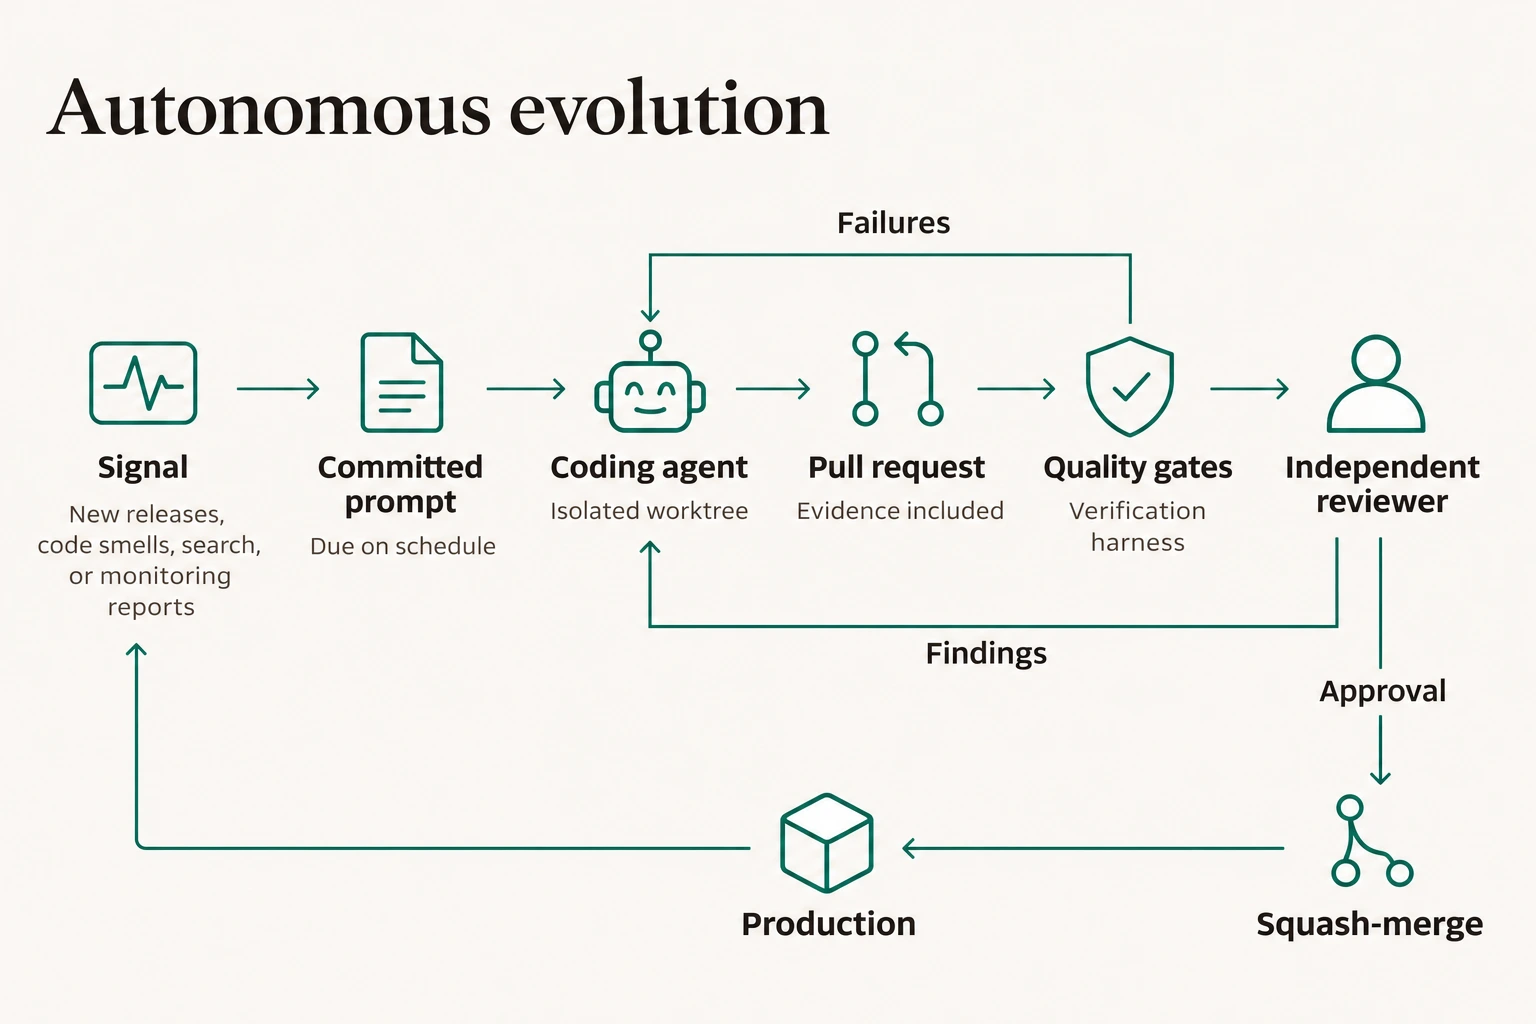
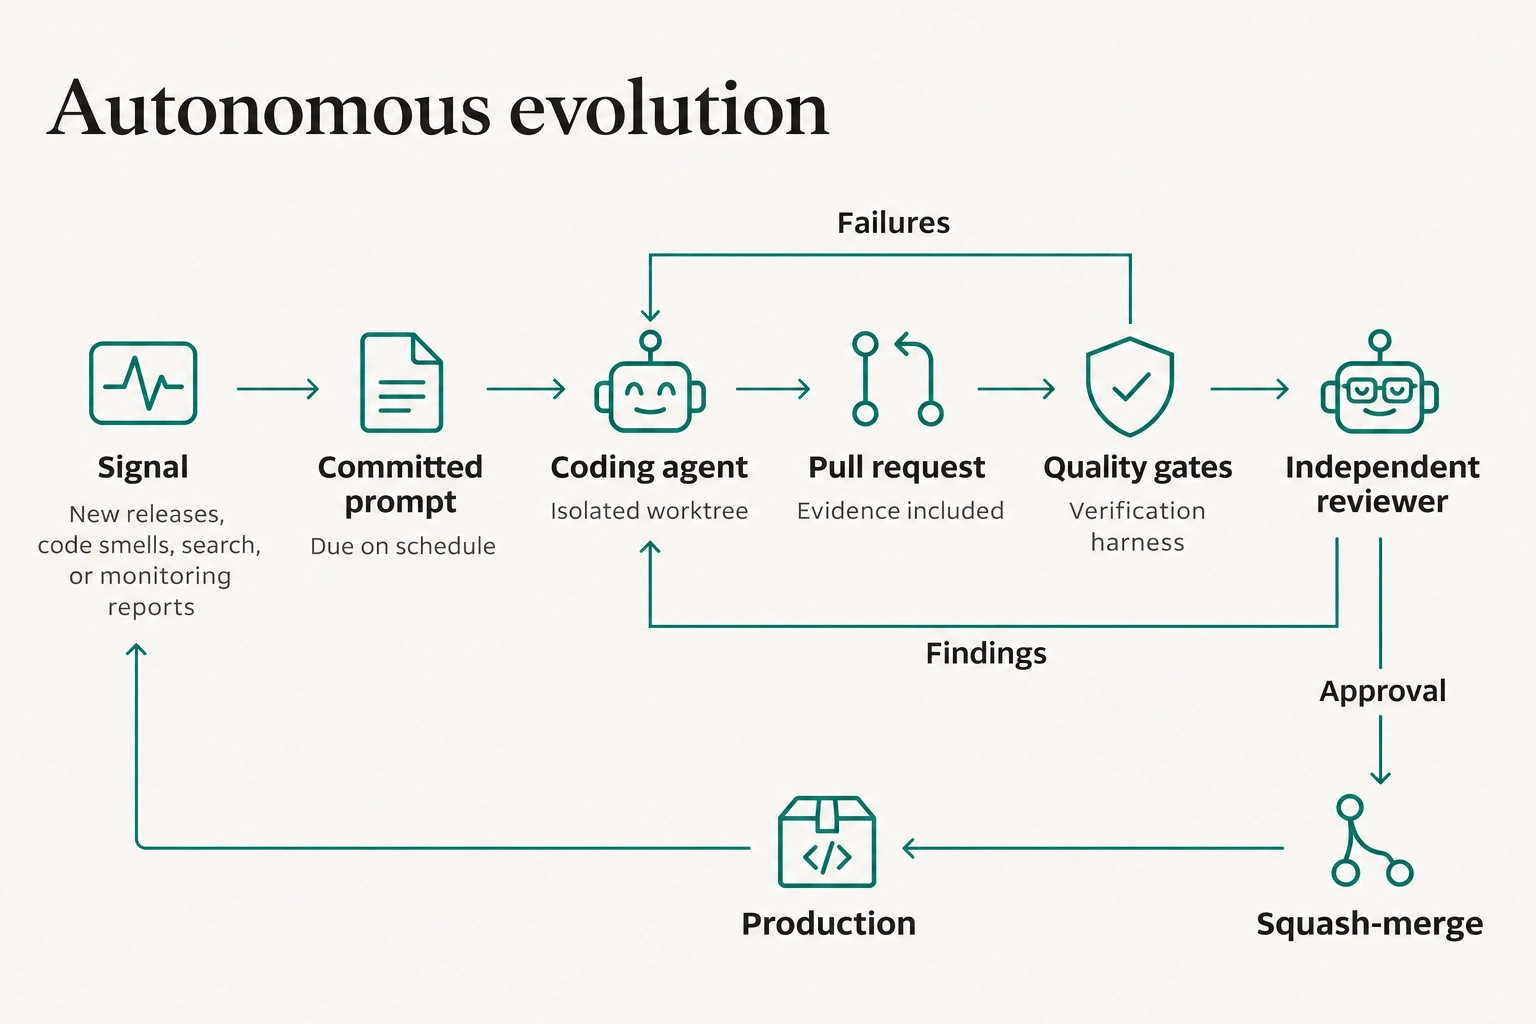
docs(autonomy): summarise what a repository's software factory needs (#19)
## Summary

Reframes the readiness guidance in [Autonomous
evolution](docs/autonomy.md) around one point: the giga factory only
coordinates, so it is only as reliable as each repository's own software
factory, and that factory needs sound agentic engineering practices.

- **Replaced** *Ready for autonomous merging* (the rule table and the
checklist) with a broad *What a repository needs* summary: a codebase
worth copying, guidance and one setup command, strict gates, behaviour
verification, an independent reviewer, prompts that define done, and
boundaries set by people.

- **Added** *In production*: these patterns maintain Python and R
packages, a public web application,
[indrapatil.com](https://www.indrapatil.com), and private dashboards,
with chatbot-template as the public example of a minimal setup.

- **Kept** *Strict, green quality gates* as a subsection.

- **Illustration:** the autonomous-evolution figure now shows the
independent reviewer as an LLM and production as a software package,
with the edit prompt recorded.

- **Linked** the new section from the README, configuration, and setup
pages.

## Validation

- `make docs` builds strictly
- `make hooks` passes

diff --git a/docs/autonomy.md b/docs/autonomy.md
@@ -47,43 +47,79 @@ whether it worked.
 > commands it may run, and keep sections that only a person can check (such as
 > dashboards with no API) as notes in the pull request.
 
-## Ready for autonomous merging
+## What a repository needs
 
-Merging automatically is safe only when a green, approved pull request is
-genuinely as good as one a careful maintainer would have merged. The
-[Golden Rules for Agentic Engineering](https://www.indrapatil.com/agentic-engineering-golden-rules/)
-describe how to get there:
+llm-dependabot is a giga factory: it only decides when each prompt runs and
+where. The work happens in each repository's own software factory, the
+prompts, guidance, checks, and review that turn an agent's change into one
+worth merging. The giga factory can only be as reliable as the factories it
+coordinates, so a repository is ready for it once its own factory works
+without anyone watching, and that takes sound agentic engineering practices:
 
-| Rule | In short |
-| --- | --- |
-| 1. Prepare the codebase for agents | Agents copy the patterns they find, so pay down high-impact technical debt first |
-| 2. Improve developer experience | What makes a repository easy for humans makes it cheaper and safer for agents: one setup command and an `AGENTS.md` |
-| 3. Set deterministic quality gates | Formatters, linters, type checkers, and tests catch known classes of mistakes, fast; agents clear strict gates tirelessly |
-| 4. Define done before delegating | State the outcome, constraints, and evidence of success, and have the agent verify its own work |
-| 5. Maintain session hygiene | Keep each task's context focused; separate parallel tasks into Git worktrees |
-| 6. Know thy tools | Use the agent's less obvious capabilities, such as image generation or computer use |
-| 7. Keep pace with a fast-moving field | Keep the agent harness current, and simplify instructions as models and tools improve |
-| 8. Automate repeated agent work | Capture recurring workflows once as prompts, skills, commands, or workflows |
-| 9. Identify and remove bottlenecks | Speed up the slowest stage next, whether checks, review, or verification |
-| 10. Give your agents more autonomy | Let agents act within boundaries that people set, with scoped access |
+- **A codebase worth copying.** Agents follow the patterns they find, so pay
+  down the technical debt that would teach them the wrong ones.
 
-Three safeguards together make low-touch delivery possible:
+- **Guidance and one setup command.** An `AGENTS.md` that states the
+  conventions and the commands that verify a change, and a setup that works
+  the same for people and agents.
 
-- **Quality gates** check the code: formatting, linting, type checking, tests
-  with coverage, dependency audits, and security scans, run identically by
-  Git hooks and CI.
+- **Strict, green quality gates.** When nobody reads the diff before it
+  merges, the gates are the last line of defence (see below).
 
-- **A verification harness** checks the behaviour: end-to-end and browser
-  tests, visual snapshots, and screenshots attached to the pull request.
+- **Verification of behaviour.** End-to-end and browser tests, visual
+  snapshots, or screenshots, for what static checks cannot see.
 
-- **An independent reviewer agent** reviews every pull request and sends
-  findings back to the coding agent until it approves.
+- **An independent reviewer.** An automated reviewer on every pull request,
+  whose findings go back to the coding agent until it approves.
+
+- **Prompts that define done.** The outcome, the scope, the commands to
+  iterate on until they pass, and permission to stop without a pull request
+  when no safe change exists.
+
+- **Boundaries set by people.** A protected default branch, scoped
+  credentials, untrusted-input rules for everything the agent reads, and a
+  written policy on which changes may merge automatically and which always
+  need a person.
+
+Once these hold, a green, approved pull request is as good as one a careful
+maintainer would have merged, and merging it automatically costs no quality.
+
+### In production
+
+These patterns are not limited to prototypes or proofs of concept. They
+maintain live systems that people depend on and that must stay current:
+
+- **Open-source Python packages** (for example,
+  [md2linkedin](https://github.com/IndrajeetPatil/md2linkedin)) and **R
+  packages** (for example,
+  [ggstatsplot](https://github.com/IndrajeetPatil/ggstatsplot)), with users
+  downstream.
+
+- **Public web applications,** such as a bilingual practice app for the
+  [German naturalisation test](https://www.indrapatil.com/einbuergerungstest/).
+
+- **A personal website,** [indrapatil.com](https://www.indrapatil.com),
+  whose content, dependencies, and search presence update themselves.
+
+- **Private dashboards** that run continuously on live data.
+
+The website and dashboards are private repositories, so
+[chatbot-template](https://github.com/IndrajeetPatil/chatbot-template)
+serves as the public example. It is a template rather than a widely used
+system, but it shows what a minimal software factory looks like: its
+`AGENTS.md`, prompts, skills, quality gates, browser tests, and reviewer loop
+let the coding agent fix CI and review findings, then squash-merge once the
+review approves and the required checks pass.
+
+> [!IMPORTANT]
+> Autonomy does not remove oversight. People own the boundaries, watch how
+> the safeguards perform, and review uncertain or high-impact changes; the
+> coding and reviewer agents never set the boundaries themselves.
 
 ### Strict, green quality gates
 
-When nobody reads the diff before it merges, the quality gates are the last
-line of defence: they reject whatever a person no longer catches. They must
-be in excellent condition:
+The gates must be in excellent condition, because they reject whatever a
+person no longer catches:
 
 | Property | What it means |
 | --- | --- |
@@ -103,55 +139,6 @@ needs review.
 > Never let an agent loosen a gate to make its change pass. Prompts and
 > `AGENTS.md` should forbid lowering thresholds, adding ignores, or skipping
 > tests without a justification that a person approves.
-
-[chatbot-template](https://github.com/IndrajeetPatil/chatbot-template/blob/main/AGENTS.md)
-shows the flow in practice: its agent instructions have the coding agent fix
-CI and review findings, then squash-merge once the review approves and the
-required checks pass.
-
-### Readiness checklist
-
-Before letting pull requests merge without a person, a repository should
-have:
-
-- [ ] A protected default branch that requires pull requests and passing
-      checks, with squash merging only.
-
-- [ ] A green default branch, so every run starts from a known baseline.
-
-- [ ] One setup command and an `AGENTS.md` with the project's conventions and
-      the commands that verify a change.
-
-- [ ] [Strict, green quality gates](#strict-green-quality-gates), strict
-      enough that passing them is meaningful, such as coverage or
-      mutation-testing thresholds rather than tests that merely exist.
-
-- [ ] A verification harness for behaviour that the gates cannot see, such as
-      user journeys and the rendered interface.
-
-- [ ] An automated reviewer on every pull request, with a fix-and-review loop.
-
-- [ ] Prompts that define done: the commands to iterate on until they pass,
-      the scope of the change, and an instruction to stop without a pull
-      request when no safe change exists.
-
-- [ ] A written risk boundary: which kinds of change may merge automatically,
-      and which always need a person, such as authentication, data
-      migrations, releases, or anything that invalidates a manual grant.
-
-- [ ] Small, reversible pull requests: one prompt, one theme, one pull
-      request.
-
-- [ ] Scoped credentials and untrusted-input rules for everything the agent
-      reads.
-
-- [ ] Monitoring after deployment, so a regression that slips through
-      becomes the next signal.
-
-> [!IMPORTANT]
-> Autonomy does not remove oversight. People own the risk boundary, watch how
-> the safeguards perform, and review uncertain or high-impact changes; the
-> coding and reviewer agents never set the boundary themselves.
 
 ## Keeping the factory itself current
 

diff --git a/docs/images/README.md b/docs/images/README.md
@@ -32,6 +32,8 @@ The hex sticker is drawn by hand; see [hextools](../../hextools/README.md).
 
 ```text
 Use case: infographic-diagram. Asset type: documentation illustration for the “Autonomous evolution” guide. Input image: use the existing llm-dependabot figure only as a reference for palette, typography, line weight, and restrained editorial style; do not copy its content or layout. Create a new landscape 3:2 editorial diagram showing the autonomous delivery feedback loop. Use warm paper #faf8f4, ink #201d18, muted ink #5d574c, fine hairlines #e3ded2, and restrained teal #14584d for the main flow. Use a large elegant Fraunces-like serif title, clean Hanken-like sans labels, flat outline icons, thin orthogonal arrows, generous whitespace, and no cards. Title exactly: “Autonomous evolution”. Show a clear left-to-right flow: “Signal” with small note “New releases, code smells, search, or monitoring reports” → “Committed prompt” with note “Due on schedule” → “Coding agent” with note “Isolated worktree” → “Pull request” with note “Evidence included” → “Quality gates” with note “Verification harness”. Then “Independent reviewer”. Show a failure loop from Quality gates back to Coding agent, labelled “Failures”; show a findings loop from Independent reviewer back to Coding agent, labelled “Findings”; show approval from Independent reviewer to “Squash-merge”, labelled “Approval”; then “Production”, with a return loop from Production back to Signal. Make arrows and branches clean and unambiguous, avoid crossing lines where possible. Exact spelling and labels. British English. No shadows, gradients, texture, 3D, emoji, decorative footer, ordinal numbering, extra text, invented facts, or logos.
+
+Follow-up edit prompt: Use case: precise-object-edit. Asset type: documentation infographic for the “Autonomous evolution” guide. Input image: Image 1 is the edit target. Preserve this exact landscape 3:2 diagram, including every position, line, label, arrow direction, line break, colour, size, spacing, warm-paper background, serif title, and restrained flat editorial style. Make only two icon changes: (1) replace the human outline icon above “Independent reviewer” with a friendly flat outline robot/LLM figure matching the “Coding agent” robot style, but clearly distinguished by simple ink/teal glasses; this communicates that the reviewer is also an LLM. (2) replace the plain cube above “Production” with a clean software-package icon, such as a closed parcel/package box with a small subtle code/package mark, still a flat outline in the same teal stroke weight and visual scale. Preserve all text exactly and legibly, especially “Independent reviewer”, “Production”, “Failures”, “Findings”, and “Approval”. Do not alter any flow, arrows, layout, labels, or any other icon. Keep palette #faf8f4 background, #201d18 ink, #5d574c muted ink, #e3ded2 hairlines, #14584d teal. No extra text, no shadows, gradients, texture, 3D, cards, logos, or watermark.
 ```
 
 ### Learn from mistakes

diff --git a/README.md b/README.md
@@ -86,6 +86,8 @@ llm-dependabot is meant to be forked and configured to suit you:
 > The repositories you maintain must carry what the agent needs: a committed
 > prompt for each kind of maintenance, guidance such as an `AGENTS.md`, and
 > checks (tests, linters, and CI) that it can run to verify its changes.
+> The giga factory is only as reliable as each repository's own software
+> factory; see [what a repository needs](https://www.indrapatil.com/llm-dependabot/autonomy/#what-a-repository-needs).
 
 See [Forking and adapting](https://www.indrapatil.com/llm-dependabot/configuration/#forking-and-adapting)
 for what to change.
@@ -128,7 +130,7 @@ The full documentation is at <https://www.indrapatil.com/llm-dependabot/>.
 | [Setup](https://www.indrapatil.com/llm-dependabot/setup/) | Requirements, repository creation, configuration, `make setup`, Full Disk Access, repository onboarding, and verification |
 | [Configuration](https://www.indrapatil.com/llm-dependabot/configuration/) | The coding agent, prompts and their cadences, the schedule, and adapting a fork |
 | [Usage](https://www.indrapatil.com/llm-dependabot/usage/) | Everyday commands, logs, files on disk, and troubleshooting |
-| [Autonomous evolution](https://www.indrapatil.com/llm-dependabot/autonomy/) | Self-healing prompts, strict quality gates, guidance that learns from mistakes, and what a repository needs before its pull requests can merge automatically |
+| [Autonomous evolution](https://www.indrapatil.com/llm-dependabot/autonomy/) | Self-healing prompts, strict quality gates, guidance that learns from mistakes, and what a repository's own software factory needs before it can take part |
 | [Architecture](https://www.indrapatil.com/llm-dependabot/architecture/) | How a run works and why it is built this way |
 | [Development](https://www.indrapatil.com/llm-dependabot/development/) | Toolchain, checks, CI, and the documentation site |
 | [LLMs](https://www.indrapatil.com/llm-dependabot/integrations/llms/) | The documentation in the `llms.txt` format |

diff --git a/docs/setup.md b/docs/setup.md
@@ -194,8 +194,9 @@ fresh worktree. A good prompt contains:
 > [`.github/prompts/simplify-codebase.md`](https://github.com/IndrajeetPatil/llm-dependabot/blob/main/.github/prompts/simplify-codebase.md).
 
 Add any other recurring work as a prompt of its own in `config.yaml`; see
-[Autonomous evolution](autonomy.md) for examples, and for what a repository
-needs before its pull requests can merge without a human in the loop.
+[Autonomous evolution](autonomy.md) for examples, and for
+[what a repository needs](autonomy.md#what-a-repository-needs) before its own
+software factory can run without anyone watching.
 
 ### Provide repository guidance (`AGENTS.md`)
 

diff --git a/docs/configuration.md b/docs/configuration.md
@@ -186,6 +186,8 @@ fork it, and adapt the configuration for your own projects.
 > committed prompt for each kind of maintenance, guidance such as an
 > `AGENTS.md`, and checks (tests, linters, and CI) that it can run to verify
 > its changes. A repository without a prompt is never touched.
+> The giga factory is only as reliable as each repository's own software
+> factory; see [what a repository needs](autonomy.md#what-a-repository-needs).
 
 See [Setup](setup.md) for the end-to-end walkthrough on initialising the
 repository, configuring your coding agent and clone directory, running
